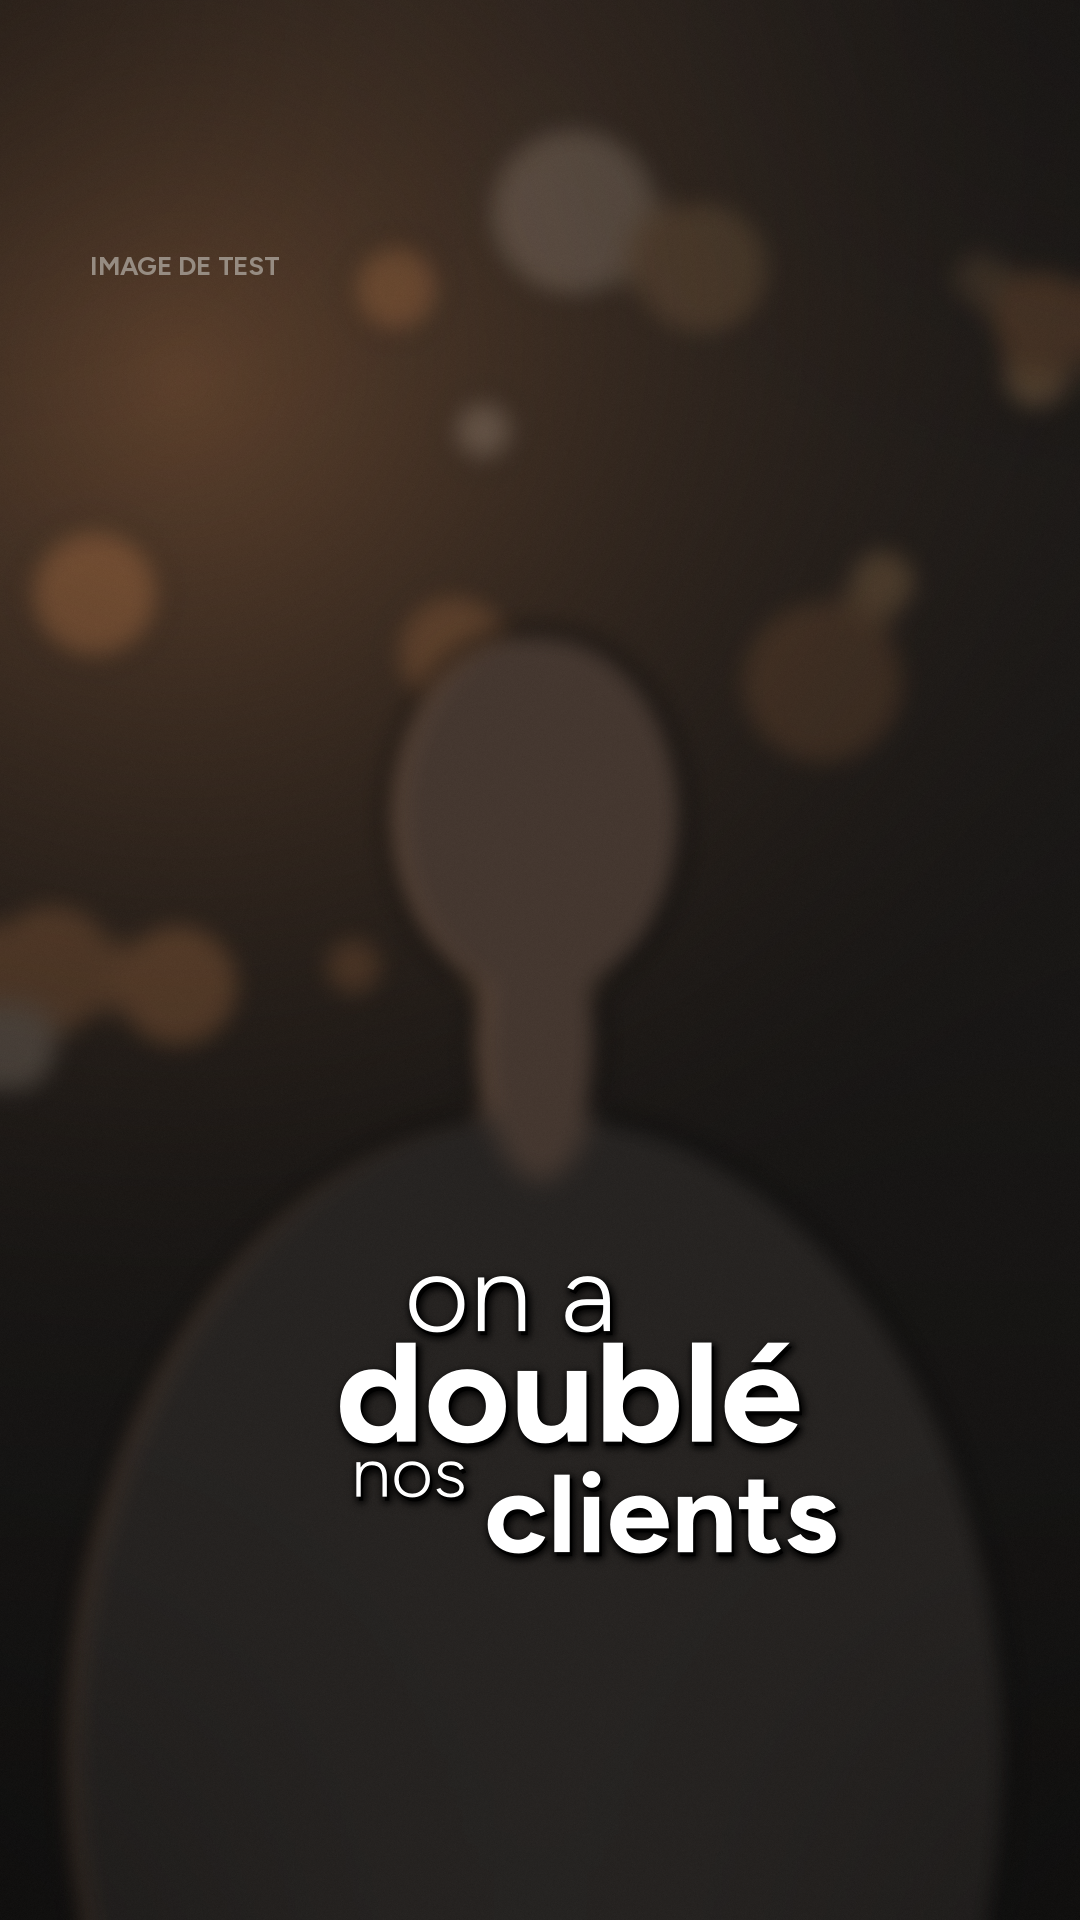
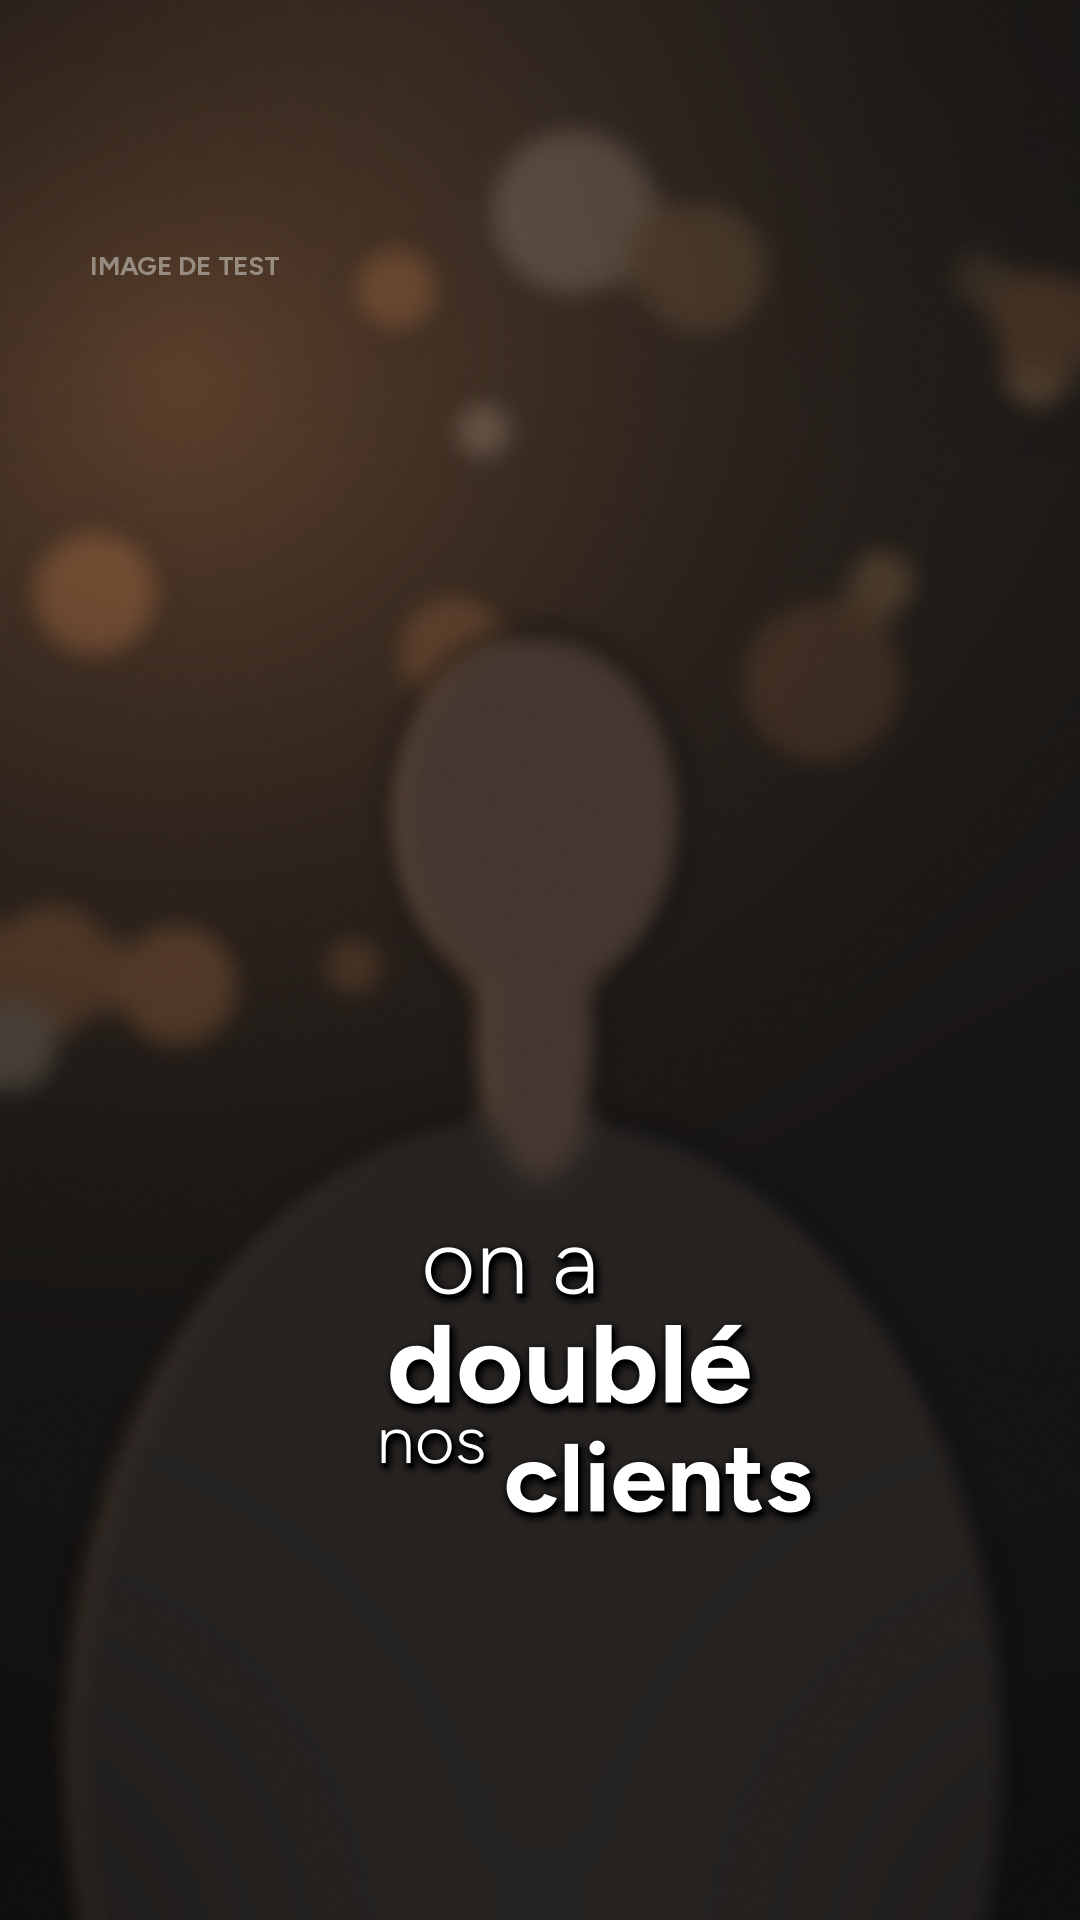
Phrases fortes aux écarts de taille modérés (quinconce + quelques mots en gras), présentation à l'endroit des sous-titres, « rien » rendu aux sous-titres, musique par défaut
Préférences de l'utilisateur notées pour toutes les vidéos dans MON-STYLE.md et CLAUDE.md.

Claude-Session: https://claude.ai/code/session_01VNkxyZ78PRMin1GHmDhwvf

Changed region(s): [[0.3056, 0.625, 0.7944, 0.8125]]

diff --git a/moteur/src/miseEnPage.ts b/moteur/src/miseEnPage.ts
@@ -15,7 +15,9 @@ export const miseEnPageAccroche = (e: any, charte: any) => {
   const n = e._t?.lignes?.length ?? 1;
   // haut des majuscules des sous-titres (capitales de Figtree ≈ 0,72 em)
   const hautSousTitres = st.position.ligne_de_base_y - 0.72 * emDepuisAss(st.taille_ass);
-  const bas = hautSousTitres - A.marge_sous_titres_px; // bas des lettres de la dernière ligne
+  // présentation (nom + fonction) : le nom se pose sur la ligne des sous-titres, qui s'effacent pendant ce temps
+  const surLaLigne = presentation && A.presentation_a_la_place_des_sous_titres;
+  const bas = surLaLigne ? st.position.ligne_de_base_y : hautSousTitres - A.marge_sous_titres_px; // bas des lettres de la dernière ligne
   const premiere = bas - (n - 1) * ecart - 0.42 * em; // centre des majuscules de la première ligne
   const hautTitre = premiere - 0.37 * em;
   const surtitreY = hautTitre - (presentation ? 22 : 30) - surtitreTaille / 2; // centre du sur-titre

diff --git a/CLAUDE.md b/CLAUDE.md
@@ -30,6 +30,19 @@ Ce dépôt sert à monter automatiquement les vidéos de l'agence LOCALISY (tém
 
 Repères de la charte : noir #000000, blanc #FFFFFF, et c'est tout : plus d'orange dans les vidéos (demande de l'utilisateur). Les mots importants ressortent en italique avec un relief noir (`mise_en_evidence` dans la charte). Formats 9:16 (1080×1920) et 4:5 (1080×1350). Son final à -14 LUFS, crête à -1 dBTP. LOCALISY s'écrit toujours en majuscules.
 
+## Préférences de l'utilisateur pour toutes les vidéos
+
+À appliquer par défaut à chaque nouveau témoignage (détails dans `MON-STYLE.md`) :
+- Noir et blanc uniquement, police Figtree, rien ne cache jamais le visage.
+- Sous-titres de la vidéo INCENDIE (`premiere_video`), à 75 % de la hauteur. Phrases fortes sur les passages importants : lignes en quinconce, quelques mots en gras, **écarts de taille modérés** (rôles `appui` et `fort` surtout, `choc` très rarement ; échelles dans la charte).
+- Pas de doublon : un mot affiché en grand n'est pas répété dans les sous-titres.
+- Présentation (nom + fonction) **à l'endroit des sous-titres**, qui s'effacent pendant ce temps (`remplace_temps` sur l'accroche de présentation).
+- Texte derrière la tête seulement pour un mot fort et intéressant (résultat, idée clé), parfaitement lisible ; jamais pour un mot faible (« rien » refusé).
+- Accroche : riser + résultat géant derrière la tête. Plans de coupe choisis par l'utilisateur. Carte en verre bien sous le visage.
+- **Toujours une musique de fond** douce et tendance, à volume bas (`outils/musique_douce.py`, ou un morceau fourni). L'utilisateur préfère la version avec musique.
+- Bruitages brefs, doux et variés. Pas de logo à la fin.
+- Livrer seulement le 9:16, sauf demande.
+
 ## Les outils
 
 ### Dérush automatique : `outils/derush.py`
